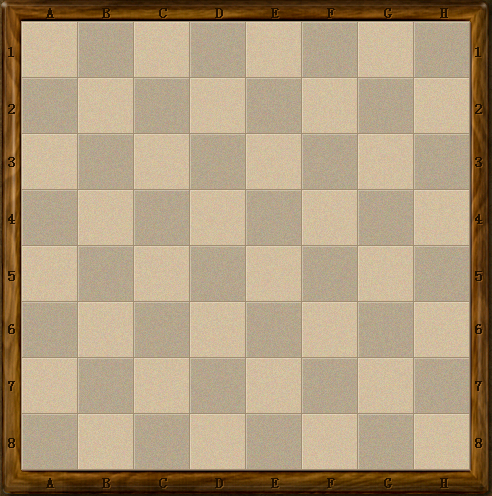
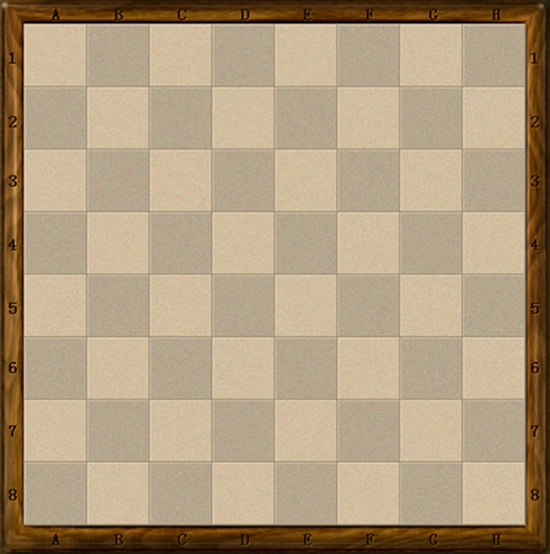
1

diff --git a/src/game/MainFrame.java b/src/game/MainFrame.java
@@ -19,7 +19,7 @@ public class MainFrame extends JFrame implements MouseMotionListener, MouseListe
     //棋子坐标
     private Point2D[][] chessIndex=new Point2D[8][8];
     //棋格宽度
-    private int chessboardFieldWidth=56;
+    private int chessboardFieldWidth=62;
     //现在下的棋子颜色
     private Color nowColor=Color.BLACK;
     //存放棋子的数组
@@ -77,24 +77,31 @@ public class MainFrame extends JFrame implements MouseMotionListener, MouseListe
         chessboard[3][4]=Color.BLACK;
         chessboard[4][3]=Color.BLACK;
         chessboard[4][4]=Color.WHITE;
+//        for (int i=0;i<8;i++){
+//            chessboard[i][7]=Color.BLACK;
+//        }
+//        for (int i=0;i<8;i++){
+//            chessboard[i][6]=Color.WHITE;
+//        }
 
-        int X=188,Y=146;
+
+        int X=160,Y=160;
         for (int i=0;i<8;i++){
-            Y=146;
+            X=160;
             for (int j=0;j<8;j++){
                 chessIndex[i][j]=new Point2D.Double(X,Y);
-                Y+=chessboardFieldWidth;
+                X+=chessboardFieldWidth;
             }
-            X+=chessboardFieldWidth;
+            Y+=chessboardFieldWidth;
         }
     }
     //TODO:得到鼠标的棋盘坐标
     private Point getIndex(Point2D mouse){
         int i=0,j=0;
         Point index=new Point(100,100);
-        for (;i<8;i++){
-            if(mouse.getX()>=chessIndex[i][0].getX()&&mouse.getX()<chessIndex[i][0].getX()+chessboardFieldWidth) {
-                for (; j < 8; j++) {
+        for (;j<8;j++){
+            if(mouse.getX()>=chessIndex[0][j].getX()&&mouse.getX()<chessIndex[0][j].getX()+chessboardFieldWidth) {
+                for (; i < 8; i++) {
                     if(mouse.getY()>=chessIndex[i][j].getY()&&mouse.getY()<chessIndex[i][j].getY()+chessboardFieldWidth){
                         index=new Point(i,j);
                         return index;
@@ -146,6 +153,7 @@ public class MainFrame extends JFrame implements MouseMotionListener, MouseListe
 
     @Override
     public void mousePressed(MouseEvent e) {
+        System.out.println(e.getX()+","+e.getY());
         Point index=getIndex(new Point2D.Double(e.getX(),e.getY()));
         mouseIndexX=(int)index.getX();
         mouseIndexY=(int)index.getY();
@@ -157,17 +165,18 @@ public class MainFrame extends JFrame implements MouseMotionListener, MouseListe
             if(Judge.isStalemate(filpColor(nowColor),chessboard)) {
                 nowColor = filpColor(nowColor);
             }
+            if(Judge.judgeIsOver(chessboard)){
+                counter.count(chessboard);
+                if(counter.getPlayerNum1()>counter.getPlayerNum2()){
+                    System.out.println("黑棋胜");
+                }else if(counter.getPlayerNum1()<counter.getPlayerNum2()){
+                    System.out.println("白棋胜");
+                }else {
+                    System.out.println("平局");
+                }
+            }
         }
         System.out.println(nowColor);
-        //System.out.println("1");
-        //-----------------------------------------------------------//
-//        for(int i=0;i<8;i++){
-//            for (int j=0;j<8;j++){
-//                System.out.print(chessboard[i][j]+" ");
-//            }
-//            System.out.println();
-//        }
-        //-----------------------------------------------------------//
         drawComponent.repaint();
     }
 

diff --git a/src/game/DrawComponent.java b/src/game/DrawComponent.java
@@ -28,17 +28,7 @@ public class DrawComponent extends JComponent {
         //TODO：棋盘初始化
         this.chessboard=chessboard;
     }
-//    private void chessIndexInit(){
-//        int X=188,Y=146;
-//        for (int i=0;i<8;i++){
-//            X=188;
-//            for (int j=0;j<8;j++){
-//                chessIndex[i][j]=new Point2D.Double(X,Y);
-//                X+=56;
-//            }
-//            Y+=56;
-//        }
-//    }
+
     @Override
     public void paintComponent(Graphics g){
         Image chessboardImage=null,blackImage1=null,whiteImage1=null;
@@ -47,13 +37,14 @@ public class DrawComponent extends JComponent {
             chessboardImage = ImageIO.read(new File("chessboard.png"));
             blackImage1 = ImageIO.read(new File("black1.png"));
             whiteImage1 = ImageIO.read(new File("white1.png"));
-            g.drawImage(chessboardImage,167,125,490,495,null);
+            g.drawImage(chessboardImage,127,105,null);
+            //g.drawImage(blackImage1,149,127,null);
             for (int i=0;i<8;i++){
                 for (int j=0;j<8;j++){
                     if(chessboard[i][j]==Color.BLACK)
-                        g.drawImage(blackImage1,(int)chessIndex[i][j].getX(),(int)chessIndex[i][j].getY(),56,56,null);
+                        g.drawImage(blackImage1,(int)chessIndex[i][j].getX()-9,(int)chessIndex[i][j].getY()-31,null);
                     if(chessboard[i][j]==Color.WHITE)
-                        g.drawImage(whiteImage1,(int)chessIndex[i][j].getX(),(int)chessIndex[i][j].getY(),56,56,null);
+                        g.drawImage(whiteImage1,(int)chessIndex[i][j].getX()-9,(int)chessIndex[i][j].getY()-31,null);
                 }
             }
         } catch (IOException e) {

diff --git a/src/game/Counter.java b/src/game/Counter.java
@@ -8,6 +8,15 @@ public class Counter {
         this.playerNum1=playerNum1;
         this.playerNum2=playerNum2;
     }
+
+    public int getPlayerNum1() {
+        return playerNum1;
+    }
+
+    public int getPlayerNum2() {
+        return playerNum2;
+    }
+
     public void count(Color[][] chessboard){
         int blackNum=0,whiteNum=0;
         for (int i=0;i<8;i++){
